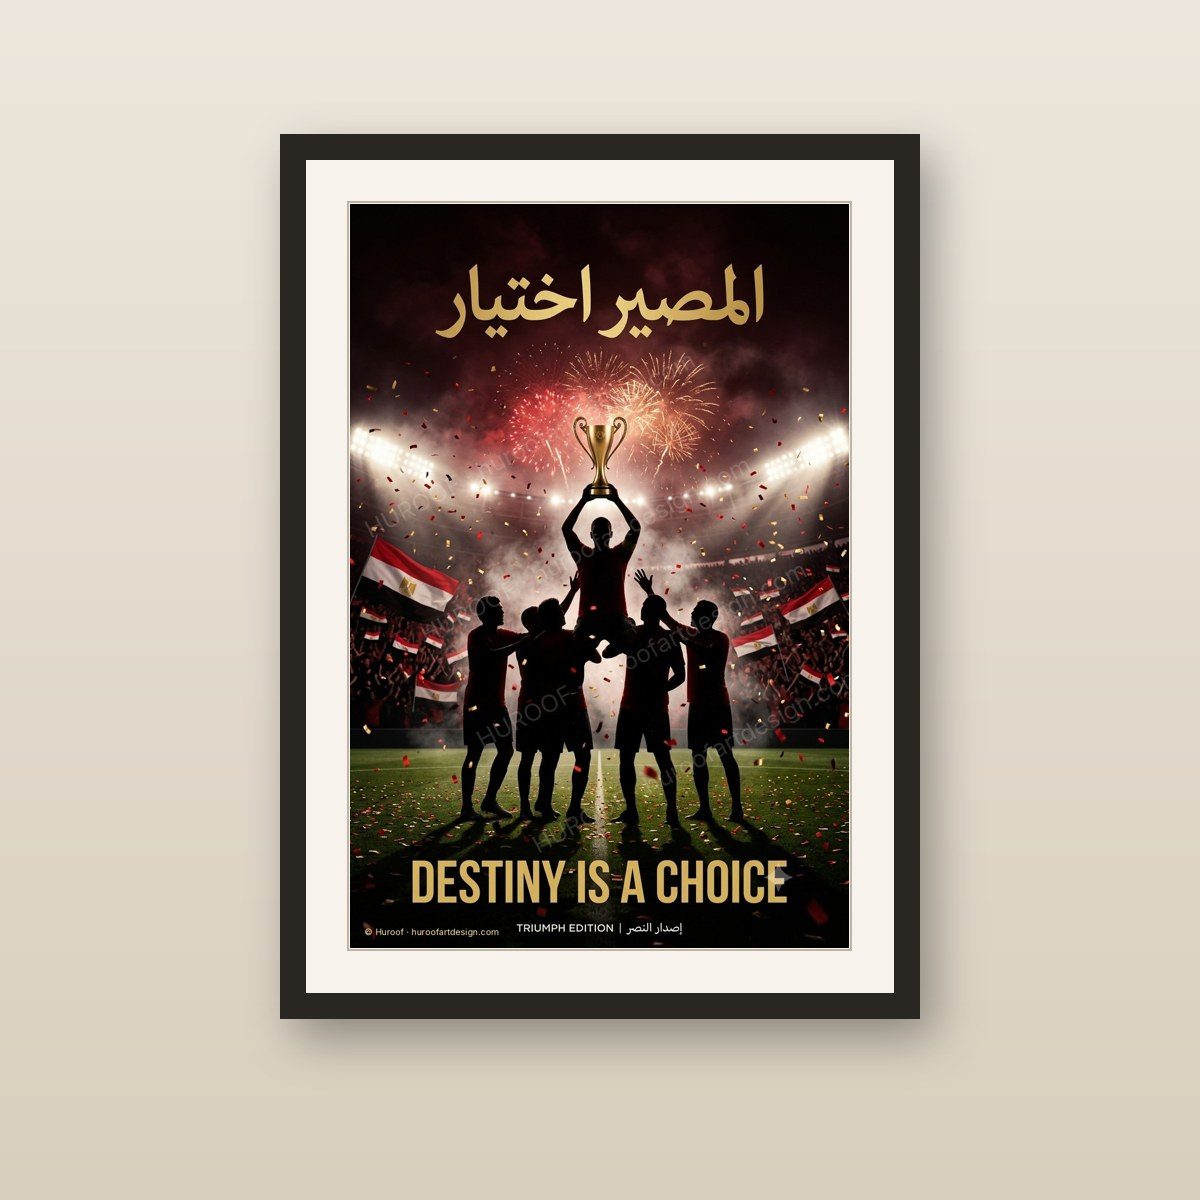
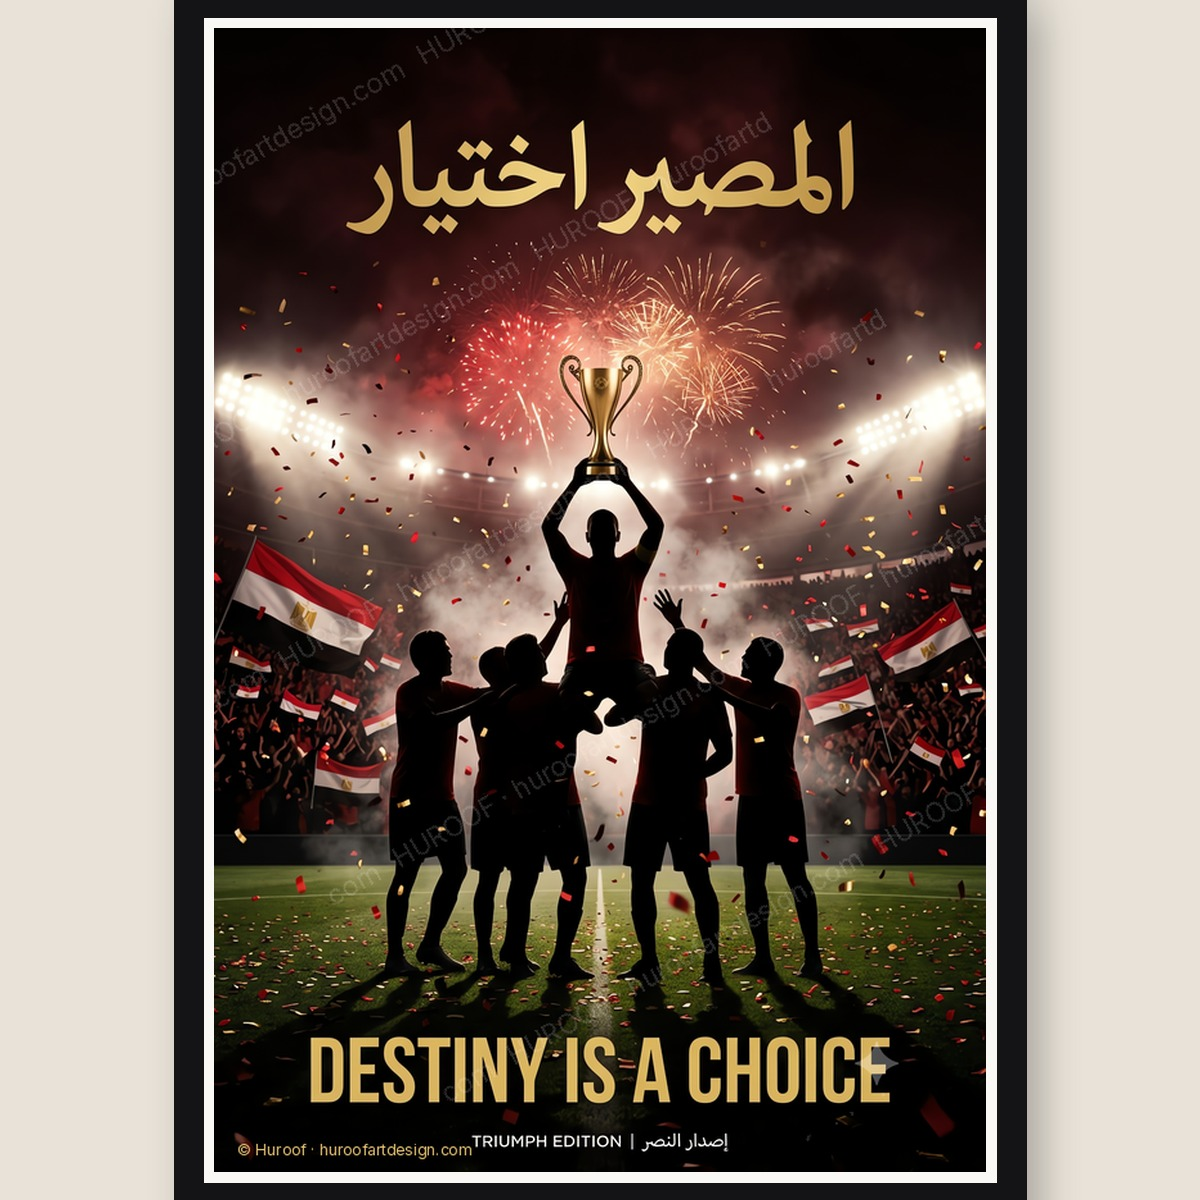
Rebuild Egypt poster assets from upscaled source (1696x2528)
Cut clean print file, watermarked preview, sharp framed mockup, Pinterest
pin and 4 social sizes from the higher-resolution upscaled poster. Update
website listing (id 21) print-size copy to A5@300DPI / A4 high quality.

Claude-Session: https://claude.ai/code/session_01HD8yHEXtnPYZ9eD4JqPorQ

diff --git a/index.html b/index.html
@@ -567,7 +567,7 @@ const PRODUCTS=[
   {id:18,img:'products/previews/batch1/RL-CHI-007.jpg',cat:'Motivational',badge:'new',titleEn:'Book · Kitab — Arabic for Kids',titleAr:'كِتَاب',buyUrl:'https://payhip.com/b/3AbEs',desc:'A bilingual Arabic–English learning print for little ones — "Book · Kitab", fully vowelled and native-reader checked. Instant download, print at home up to A2 / 300 DPI.',price:7,colors:['#F7EFE2','#1C3050','#B0653A','#C8A664','#EADCC3'],types:['Digital Download','Poster'],sizes:['A4','A3','A2'],tags:['Kids','Arabic Learning','Nursery'],meta:['Instant digital download available','Fully vowelled Arabic (tashkeel)','Arabic checked by a native reader','Personal-use licence — © Huroof']},
   {id:19,img:'products/previews/batch1/RL-CHI-002.jpg',cat:'Motivational',badge:'new',titleEn:'Elephant · Feel — Arabic for Kids',titleAr:'فِيل',buyUrl:'https://payhip.com/b/V3tId',desc:'A bilingual Arabic–English learning print for little ones — "Elephant · Feel", fully vowelled and native-reader checked. Instant download, print at home up to A2 / 300 DPI.',price:7,colors:['#F7EFE2','#1C3050','#B0653A','#C8A664','#EADCC3'],types:['Digital Download','Poster'],sizes:['A4','A3','A2'],tags:['Kids','Arabic Learning','Nursery'],meta:['Instant digital download available','Fully vowelled Arabic (tashkeel)','Arabic checked by a native reader','Personal-use licence — © Huroof']},
   {id:20,img:'products/previews/batch1/RL-CHI-003.jpg',cat:'Motivational',badge:'new',titleEn:'Giraffe · Zarafa — Arabic for Kids',titleAr:'زَرَافَة',buyUrl:'https://payhip.com/b/XF3mv',desc:'A bilingual Arabic–English learning print for little ones — "Giraffe · Zarafa", fully vowelled and native-reader checked. Instant download, print at home up to A2 / 300 DPI.',price:7,colors:['#F7EFE2','#1C3050','#B0653A','#C8A664','#EADCC3'],types:['Digital Download','Poster'],sizes:['A4','A3','A2'],tags:['Kids','Arabic Learning','Nursery'],meta:['Instant digital download available','Fully vowelled Arabic (tashkeel)','Arabic checked by a native reader','Personal-use licence — © Huroof']},
-  {id:21,img:'products/previews/events/egypt-destiny.jpg',cat:'Events',badge:'new',titleEn:'Egypt Football Champions — Destiny Is a Choice',titleAr:'المصير اختيار',buyUrl:'https://payhip.com/b/eBPDF',desc:'A cinematic bilingual fan-pride poster — "Destiny Is a Choice / المصير اختيار", Triumph Edition. Dramatic red, black and gold. Instant download, best printed at A5. Original fan art, not affiliated with or endorsed by any team, player or sporting body.',price:9,colors:['#3A0A12','#CE1126','#E0B250','#08090F','#1C1F40'],types:['Digital Download'],sizes:['A5','A4'],tags:['Football','Egypt','Events'],meta:['Instant digital download','Best printed at A5 size','Original fan art — not affiliated/endorsed','Personal-use licence — © Huroof']},
+  {id:21,img:'products/previews/events/egypt-destiny.jpg',cat:'Events',badge:'new',titleEn:'Egypt Football Champions — Destiny Is a Choice',titleAr:'المصير اختيار',buyUrl:'https://payhip.com/b/eBPDF',desc:'A cinematic bilingual fan-pride poster — "Destiny Is a Choice / المصير اختيار", Triumph Edition. Dramatic red, black and gold. Instant download — crisp A5 at 300 DPI, great A4 at high quality. Original fan art, not affiliated with or endorsed by any team, player or sporting body.',price:9,colors:['#3A0A12','#CE1126','#E0B250','#08090F','#1C1F40'],types:['Digital Download'],sizes:['A5','A4'],tags:['Football','Egypt','Events'],meta:['Instant digital download','A5 @ 300 DPI · A4 high quality','Original fan art — not affiliated/endorsed','Personal-use licence — © Huroof']},
 ];
 let cart=[],activeCategory='All',currentProduct=null;
 /* Cart persistence — fault-tolerant: works on a deployed site,

diff --git a/tools/build_egypt_assets.py b/tools/build_egypt_assets.py
@@ -1,0 +1,107 @@
+#!/usr/bin/env python3
+"""Build every platform asset for the Egypt 'Destiny Is a Choice' poster
+from the upscaled clean source. Outputs: clean print file (buyer download),
+watermarked preview, framed mockup, Pinterest pin, and 4 social sizes.
+"""
+import os
+from PIL import Image, ImageDraw, ImageFont, ImageFilter
+
+SRC = "/tmp/egypt_upscaled.png"
+FD = "/tmp/fonts"
+ROOT = "/home/user/Huroof/products"
+def P(*a): return os.path.join(ROOT, *a)
+def f(name, s): return ImageFont.truetype(os.path.join(FD, name), s)
+
+GOLD = (224, 188, 110)
+src = Image.open(SRC).convert("RGB")
+W, H = src.size
+
+# ---------- 1. CLEAN PRINT FILE (buyer download) — small © signature only ----------
+print_img = src.copy()
+d = ImageDraw.Draw(print_img, "RGBA")
+sig = f("Inter[opsz,wght].ttf", int(W*0.018))
+d.text((int(W*0.5), H-int(W*0.022)), "© Huroof · huroofartdesign.com",
+       font=sig, fill=(255, 255, 255, 90), anchor="mm")
+os.makedirs(P("print", "events"), exist_ok=True)
+print_img.save(P("print", "events", "egypt-destiny-print.jpg"), quality=95)
+
+# ---------- helpers ----------
+def sign_on(img):
+    """Gold © signature bottom-left."""
+    im = img.copy(); d = ImageDraw.Draw(im, "RGBA")
+    w, h = im.size
+    d.text((int(w*0.03), h-int(w*0.03)), "© Huroof · huroofartdesign.com",
+           font=f("Inter[opsz,wght].ttf", int(w*0.020)), fill=GOLD+(220,), anchor="lm")
+    return im
+
+def protected(img):
+    """Diagonal repeating faint watermark across the image."""
+    im = img.copy().convert("RGBA")
+    w, h = im.size
+    ov = Image.new("RGBA", (w, h), (0, 0, 0, 0))
+    d = ImageDraw.Draw(ov)
+    wm = f("Inter[opsz,wght].ttf", int(w*0.035))
+    txt = "HUROOF · huroofartdesign.com"
+    step_x, step_y = int(w*0.55), int(h*0.20)
+    for yy in range(-h, h*2, step_y):
+        for xx in range(-w, w*2, step_x):
+            d.text((xx, yy), txt, font=wm, fill=(255, 255, 255, 38))
+    ov = ov.rotate(30, expand=False)
+    im.alpha_composite(ov)
+    return sign_on(im.convert("RGB"))
+
+def pad(img, tw, th, bg=(8, 9, 15)):
+    """Contain img on a dark canvas of tw x th (for social formats)."""
+    canvas = Image.new("RGB", (tw, th), bg)
+    im = img.copy()
+    im.thumbnail((tw, th), Image.LANCZOS)
+    canvas.paste(im, ((tw-im.width)//2, (th-im.height)//2))
+    return canvas
+
+# ---------- 2. WATERMARKED PREVIEW (listings + website main image) ----------
+preview = src.copy()
+preview.thumbnail((1200, 1800), Image.LANCZOS)
+protected(preview).save(P("previews", "events", "egypt-destiny.jpg"), quality=90)
+
+# ---------- 3. PINTEREST PIN 1000x1500 (watermarked) ----------
+pin = src.copy(); pin.thumbnail((1000, 1500), Image.LANCZOS)
+pin_canvas = pad(protected(pin), 1000, 1500)
+pin_canvas.save(P("pins", "events", "egypt-destiny-pin.jpg"), quality=90)
+
+# ---------- 4. FRAMED MOCKUP (sharp, from upscaled source) ----------
+def framed(poster, out, wall=(232, 226, 216)):
+    pw, ph = 760, int(760 * poster.height/poster.width)
+    cw, chh = 1200, 1200
+    canvas = Image.new("RGB", (cw, chh), wall)
+    # soft shadow
+    fr_x, fr_y = (cw-pw)//2 - 46, (chh-ph)//2 - 46
+    fw, fh = pw + 92, ph + 92
+    sh = Image.new("RGBA", (cw, chh), (0, 0, 0, 0))
+    ds = ImageDraw.Draw(sh)
+    ds.rectangle([fr_x+14, fr_y+20, fr_x+fw+14, fr_y+fh+20], fill=(0, 0, 0, 70))
+    canvas.paste(Image.new("RGB", (cw, chh), (0, 0, 0)), (0, 0),
+                 sh.filter(ImageFilter.GaussianBlur(18)))
+    # black frame + white mat
+    d = ImageDraw.Draw(canvas)
+    d.rectangle([fr_x, fr_y, fr_x+fw, fr_y+fh], fill=(20, 20, 22))
+    mat = 30
+    d.rectangle([fr_x+mat, fr_y+mat, fr_x+fw-mat, fr_y+fh-mat], fill=(250, 248, 244))
+    p = poster.resize((pw-2*mat+ (fw-2*mat - (pw-2*mat)), ph), Image.LANCZOS) if False else poster.resize((fw-2*mat-20, fh-2*mat-20), Image.LANCZOS)
+    canvas.paste(p, (fr_x+mat+10, fr_y+mat+10))
+    canvas.save(out, quality=92)
+framed(protected(src.copy().resize((600, int(600*H/W)), Image.LANCZOS)),
+       P("mockups", "events", "egypt-destiny-framed.jpg"))
+
+# ---------- 5. SOCIAL SET ----------
+S = lambda *a: P("social", "events", *a)
+pad(src, 1080, 1350).save(S("egypt-instagram-portrait-1080x1350.jpg"), quality=90)
+pad(src, 1080, 1080).save(S("egypt-instagram-square-1080.jpg"), quality=90)
+pad(src, 1080, 1920).save(S("egypt-story-1080x1920.jpg"), quality=90)
+pad(src, 1200, 675).save(S("egypt-facebook-1200x675.jpg"), quality=90)
+
+print("done. source:", src.size)
+for r, _, fs in os.walk(P()):
+    for fn in fs:
+        if "egypt" in fn:
+            pth = os.path.join(r, fn)
+            print(f"  {os.path.relpath(pth, ROOT)}  {Image.open(pth).size}")
